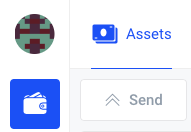
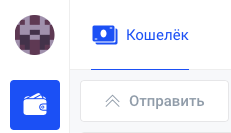
Updates

diff --git a/ru/waves-client/account-management/waves-address.md b/ru/waves-client/account-management/waves-address.md
@@ -1,12 +1,11 @@
-# **Where Can I Find My Waves Address**
+# **Где я могу найти мой Waves адрес**.
 
-Open your Waves wallet. At the top left corner click on the avatar of your account.
+Откройте Waves приложение. В левом верхнем углу нажмите на аватар вашего аккаунта.
 
 ![](/_assets/waves_address_01.png)
 
-The following pop-up will appear.
-There you will find the Waves address of your account.
+После этого появится окно с вашим Waves адресом.
 
 ![](/_assets/waves_address_02.png)
 
-Also in this section you can create personal Alias, for more information please follow another article [How to create an Alias](/en/waves-client/account-management/creating-an-alias.md)
+Также в этом разделе вы можете создать персональный Alias. Для получения дополнительной информации, пожалуйста следуйте инструкции [Создание персонального алиаса](/ru/waves-client/account-management/creating-an-alias.md)

diff --git a/ru/SUMMARY.md b/ru/SUMMARY.md
@@ -25,7 +25,7 @@
     * [Создание аккаунта](/ru/waves-client/account-management/creating-an-account.md)
     * [Восстановление аккаунта](/ru/waves-client/account-management/restore-an-account.md)
     * [Вход в аккаунт](/ru/waves-client/account-management/signing-in-to-your-account.md)
-    * [Использование Waves адреса](/ru/waves-client/account-management/waves-address.md)
+    * [Ваш Waves адрес](/ru/waves-client/account-management/waves-address.md)
     * [Создание персонального алиаса](/ru/waves-client/account-management/creating-an-alias.md)
     * [Лизинг Waves токенов](/ru/waves-client/account-management/waves-leasing.md)
   * [Переводы и шлюзы](/ru/waves-client/wallet-management.md)

diff --git a/ru/waves-client/account-management/signing-in-to-your-account.md b/ru/waves-client/account-management/signing-in-to-your-account.md
@@ -1,5 +1,5 @@
 # **Вход в зарегестрированный аккаунт**.
 
-Для входа в уже зарегестрированный аккаунт достаточно выбрать Waves адрес из списка и ввести используемый пароль аккаунт, после этого нажать на кнопку **Войти**.
+Для входа в уже зарегестрированный аккаунт достаточно выбрать Waves адрес из списка и ввести используемый пароль аккаунта, после этого нажать на кнопку **Войти**.
 
 ![](/ru/_assets/login_page.png)
